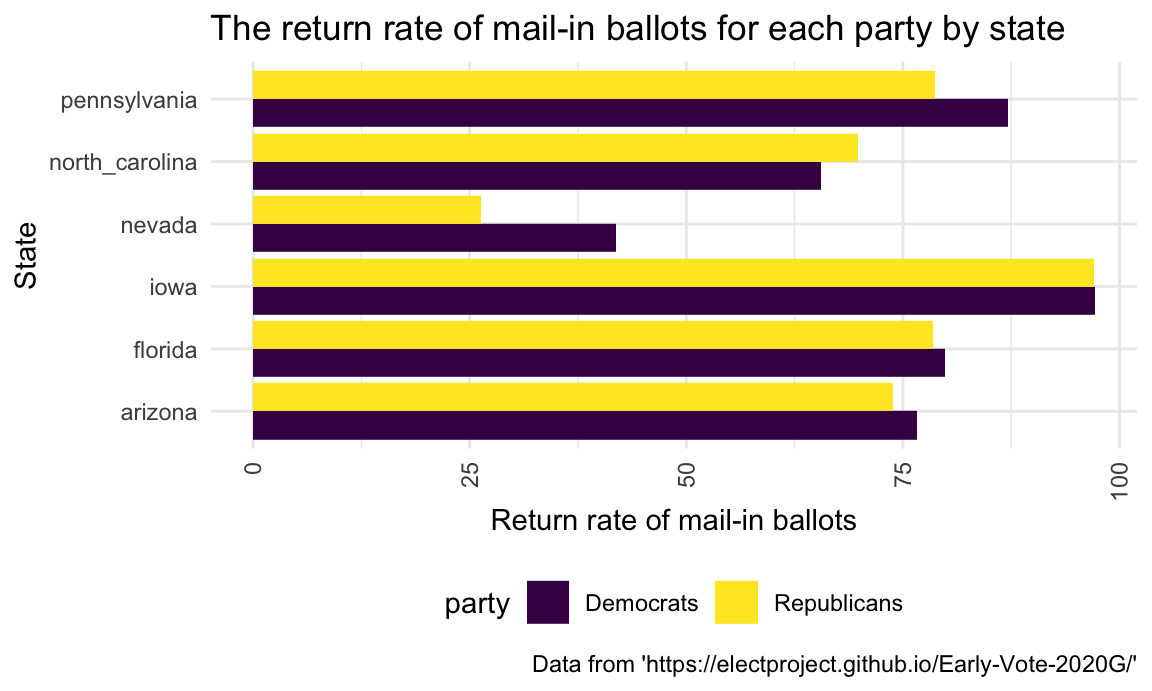
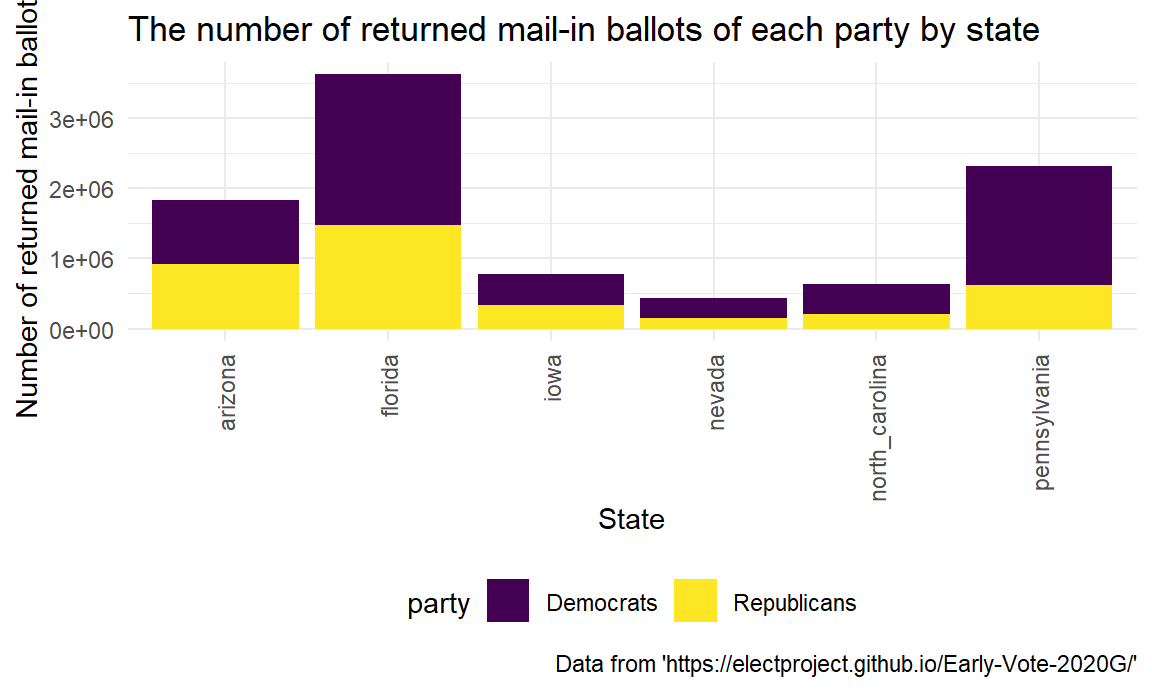
Finish the mail-in ballots rmd and html

diff --git a/supporting-rate-comparison.html b/supporting-rate-comparison.html
@@ -26,7 +26,7 @@
 <script src="site_libs/navigation-1.1/codefolding.js"></script>
 <link href="site_libs/highlightjs-9.12.0/default.css" rel="stylesheet" />
 <script src="site_libs/highlightjs-9.12.0/highlight.js"></script>
-<script src="site_libs/htmlwidgets-1.5.2/htmlwidgets.js"></script>
+<script src="site_libs/htmlwidgets-1.5.1/htmlwidgets.js"></script>
 <script src="site_libs/plotly-binding-4.9.2.1/plotly.js"></script>
 <script src="site_libs/typedarray-0.1/typedarray.min.js"></script>
 <link href="site_libs/crosstalk-1.1.0.1/css/crosstalk.css" rel="stylesheet" />
@@ -420,12 +420,12 @@ div.tocify {
 <h1>Results</h1>
 <hr />
 <pre class="r"><code>plot16</code></pre>
-<div id="htmlwidget-b330523681bee76b677a" style="width:90%;height:345.6px;" class="plotly html-widget"></div>
-<script type="application/json" data-for="htmlwidget-b330523681bee76b677a">{"x":{"data":[{"orientation":"v","width":[0.9,0.899999999999999,0.899999999999999,0.899999999999999,0.9,0.899999999999999,0.9,0.9,0.899999999999999,0.899999999999999,0.9,0.899999999999999,0.899999999999999,0.9,0.9,0.899999999999999,0.899999999999999],"base":[48.6,48.2,47.2,49.9,47.3,51.3,51.2,48.1,45.5,52.2,50.5,44.4,46.5,44.9,43.3,40,44.9],"x":[3,14,17,12,7,13,5,1,9,15,4,16,10,6,2,11,8],"y":[47.4,47.5,46.5,46.2,47,43.2,41.7,44.6,47.9,43.2,45.4,49.8,46.8,47.8,48.2,48.3,46.4],"text":["state: florida<br />rate: 47.4<br />party: dem","state: pennsylvania<br />rate: 47.5<br />party: dem","state: wisconsin<br />rate: 46.5<br />party: dem","state: north_carolina<br />rate: 46.2<br />party: dem","state: michigan<br />rate: 47.0<br />party: dem","state: ohio<br />rate: 43.2<br />party: dem","state: iowa<br />rate: 41.7<br />party: dem","state: arizona<br />rate: 44.6<br />party: dem","state: nevada<br />rate: 47.9<br />party: dem","state: texas<br />rate: 43.2<br />party: dem","state: georgia<br />rate: 45.4<br />party: dem","state: virginia<br />rate: 49.8<br />party: dem","state: new_hampshire<br />rate: 46.8<br />party: dem","state: maine<br />rate: 47.8<br />party: dem","state: colorado<br />rate: 48.2<br />party: dem","state: new_mexico<br />rate: 48.3<br />party: dem","state: minnesota<br />rate: 46.4<br />party: dem"],"type":"bar","marker":{"autocolorscale":false,"color":"rgba(68,1,84,1)","line":{"width":1.88976377952756,"color":"transparent"}},"name":"dem","legendgroup":"dem","showlegend":true,"xaxis":"x","yaxis":"y","hoverinfo":"text","frame":null},{"orientation":"v","width":[0.9,0.899999999999999,0.899999999999999,0.899999999999999,0.9,0.899999999999999,0.9,0.9,0.899999999999999,0.899999999999999,0.9,0.899999999999999,0.899999999999999,0.9,0.9,0.899999999999999,0.899999999999999],"base":[0,0,0,0,0,0,0,0,0,0,0,0,0,0,0,0,0],"x":[3,14,17,12,7,13,5,1,9,15,4,16,10,6,2,11,8],"y":[48.6,48.2,47.2,49.9,47.3,51.3,51.2,48.1,45.5,52.2,50.5,44.4,46.5,44.9,43.3,40,44.9],"text":["state: florida<br />rate: 48.6<br />party: rep","state: pennsylvania<br />rate: 48.2<br />party: rep","state: wisconsin<br />rate: 47.2<br />party: rep","state: north_carolina<br />rate: 49.9<br />party: rep","state: michigan<br />rate: 47.3<br />party: rep","state: ohio<br />rate: 51.3<br />party: rep","state: iowa<br />rate: 51.2<br />party: rep","state: arizona<br />rate: 48.1<br />party: rep","state: nevada<br />rate: 45.5<br />party: rep","state: texas<br />rate: 52.2<br />party: rep","state: georgia<br />rate: 50.5<br />party: rep","state: virginia<br />rate: 44.4<br />party: rep","state: new_hampshire<br />rate: 46.5<br />party: rep","state: maine<br />rate: 44.9<br />party: rep","state: colorado<br />rate: 43.3<br />party: rep","state: new_mexico<br />rate: 40.0<br />party: rep","state: minnesota<br />rate: 44.9<br />party: rep"],"type":"bar","marker":{"autocolorscale":false,"color":"rgba(253,231,37,1)","line":{"width":1.88976377952756,"color":"transparent"}},"name":"rep","legendgroup":"rep","showlegend":true,"xaxis":"x","yaxis":"y","hoverinfo":"text","frame":null}],"layout":{"margin":{"t":43.7625570776256,"r":7.30593607305936,"b":110.319634703196,"l":43.1050228310502},"font":{"color":"rgba(0,0,0,1)","family":"","size":14.6118721461187},"title":{"text":"Supporting rate in 2016","font":{"color":"rgba(0,0,0,1)","family":"","size":17.5342465753425},"x":0,"xref":"paper"},"xaxis":{"domain":[0,1],"automargin":true,"type":"linear","autorange":false,"range":[0.4,17.6],"tickmode":"array","ticktext":["arizona","colorado","florida","georgia","iowa","maine","michigan","minnesota","nevada","new_hampshire","new_mexico","north_carolina","ohio","pennsylvania","texas","virginia","wisconsin"],"tickvals":[1,2,3,4,5,6,7,8,9,10,11,12,13,14,15,16,17],"categoryorder":"array","categoryarray":["arizona","colorado","florida","georgia","iowa","maine","michigan","minnesota","nevada","new_hampshire","new_mexico","north_carolina","ohio","pennsylvania","texas","virginia","wisconsin"],"nticks":null,"ticks":"","tickcolor":null,"ticklen":3.65296803652968,"tickwidth":0,"showticklabels":true,"tickfont":{"color":"rgba(77,77,77,1)","family":"","size":11.689497716895},"tickangle":-90,"showline":false,"linecolor":null,"linewidth":0,"showgrid":true,"gridcolor":"rgba(235,235,235,1)","gridwidth":0.66417600664176,"zeroline":false,"anchor":"y","title":{"text":"State","font":{"color":"rgba(0,0,0,1)","family":"","size":14.6118721461187}},"hoverformat":".2f"},"yaxis":{"domain":[0,1],"automargin":true,"type":"linear","autorange":false,"range":[-4.805,100.905],"tickmode":"array","ticktext":["0","25","50","75","100"],"tickvals":[0,25,50,75,100],"categoryorder":"array","categoryarray":["0","25","50","75","100"],"nticks":null,"ticks":"","tickcolor":null,"ticklen":3.65296803652968,"tickwidth":0,"showticklabels":true,"tickfont":{"color":"rgba(77,77,77,1)","family":"","size":11.689497716895},"tickangle":-0,"showline":false,"linecolor":null,"linewidth":0,"showgrid":true,"gridcolor":"rgba(235,235,235,1)","gridwidth":0.66417600664176,"zeroline":false,"anchor":"x","title":{"text":"Rate","font":{"color":"rgba(0,0,0,1)","family":"","size":14.6118721461187}},"hoverformat":".2f"},"shapes":[{"type":"rect","fillcolor":null,"line":{"color":null,"width":0,"linetype":[]},"yref":"paper","xref":"paper","x0":0,"x1":1,"y0":0,"y1":1}],"showlegend":true,"legend":{"bgcolor":null,"bordercolor":null,"borderwidth":0,"font":{"color":"rgba(0,0,0,1)","family":"","size":11.689497716895},"y":0.913385826771654},"annotations":[{"text":"party","x":1.02,"y":1,"showarrow":false,"ax":0,"ay":0,"font":{"color":"rgba(0,0,0,1)","family":"","size":14.6118721461187},"xref":"paper","yref":"paper","textangle":-0,"xanchor":"left","yanchor":"bottom","legendTitle":true}],"hovermode":"closest","barmode":"relative"},"config":{"doubleClick":"reset","showSendToCloud":false},"source":"A","attrs":{"2da765f4a162":{"x":{},"y":{},"fill":{},"type":"bar"}},"cur_data":"2da765f4a162","visdat":{"2da765f4a162":["function (y) ","x"]},"highlight":{"on":"plotly_click","persistent":false,"dynamic":false,"selectize":false,"opacityDim":0.2,"selected":{"opacity":1},"debounce":0},"shinyEvents":["plotly_hover","plotly_click","plotly_selected","plotly_relayout","plotly_brushed","plotly_brushing","plotly_clickannotation","plotly_doubleclick","plotly_deselect","plotly_afterplot","plotly_sunburstclick"],"base_url":"https://plot.ly"},"evals":[],"jsHooks":[]}</script>
+<div id="htmlwidget-e69854a0fd1967c18110" style="width:90%;height:345.6px;" class="plotly html-widget"></div>
+<script type="application/json" data-for="htmlwidget-e69854a0fd1967c18110">{"x":{"data":[{"orientation":"v","width":[0.9,0.899999999999999,0.899999999999999,0.899999999999999,0.9,0.899999999999999,0.9,0.9,0.899999999999999,0.899999999999999,0.9,0.899999999999999,0.899999999999999,0.9,0.9,0.899999999999999,0.899999999999999],"base":[48.6,48.2,47.2,49.9,47.3,51.3,51.2,48.1,45.5,52.2,50.5,44.4,46.5,44.9,43.3,40,44.9],"x":[3,14,17,12,7,13,5,1,9,15,4,16,10,6,2,11,8],"y":[47.4,47.5,46.5,46.2,47,43.2,41.7,44.6,47.9,43.2,45.4,49.8,46.8,47.8,48.2,48.3,46.4],"text":["state: florida<br />rate: 47.4<br />party: dem","state: pennsylvania<br />rate: 47.5<br />party: dem","state: wisconsin<br />rate: 46.5<br />party: dem","state: north_carolina<br />rate: 46.2<br />party: dem","state: michigan<br />rate: 47.0<br />party: dem","state: ohio<br />rate: 43.2<br />party: dem","state: iowa<br />rate: 41.7<br />party: dem","state: arizona<br />rate: 44.6<br />party: dem","state: nevada<br />rate: 47.9<br />party: dem","state: texas<br />rate: 43.2<br />party: dem","state: georgia<br />rate: 45.4<br />party: dem","state: virginia<br />rate: 49.8<br />party: dem","state: new_hampshire<br />rate: 46.8<br />party: dem","state: maine<br />rate: 47.8<br />party: dem","state: colorado<br />rate: 48.2<br />party: dem","state: new_mexico<br />rate: 48.3<br />party: dem","state: minnesota<br />rate: 46.4<br />party: dem"],"type":"bar","marker":{"autocolorscale":false,"color":"rgba(68,1,84,1)","line":{"width":1.88976377952756,"color":"transparent"}},"name":"dem","legendgroup":"dem","showlegend":true,"xaxis":"x","yaxis":"y","hoverinfo":"text","frame":null},{"orientation":"v","width":[0.9,0.899999999999999,0.899999999999999,0.899999999999999,0.9,0.899999999999999,0.9,0.9,0.899999999999999,0.899999999999999,0.9,0.899999999999999,0.899999999999999,0.9,0.9,0.899999999999999,0.899999999999999],"base":[0,0,0,0,0,0,0,0,0,0,0,0,0,0,0,0,0],"x":[3,14,17,12,7,13,5,1,9,15,4,16,10,6,2,11,8],"y":[48.6,48.2,47.2,49.9,47.3,51.3,51.2,48.1,45.5,52.2,50.5,44.4,46.5,44.9,43.3,40,44.9],"text":["state: florida<br />rate: 48.6<br />party: rep","state: pennsylvania<br />rate: 48.2<br />party: rep","state: wisconsin<br />rate: 47.2<br />party: rep","state: north_carolina<br />rate: 49.9<br />party: rep","state: michigan<br />rate: 47.3<br />party: rep","state: ohio<br />rate: 51.3<br />party: rep","state: iowa<br />rate: 51.2<br />party: rep","state: arizona<br />rate: 48.1<br />party: rep","state: nevada<br />rate: 45.5<br />party: rep","state: texas<br />rate: 52.2<br />party: rep","state: georgia<br />rate: 50.5<br />party: rep","state: virginia<br />rate: 44.4<br />party: rep","state: new_hampshire<br />rate: 46.5<br />party: rep","state: maine<br />rate: 44.9<br />party: rep","state: colorado<br />rate: 43.3<br />party: rep","state: new_mexico<br />rate: 40.0<br />party: rep","state: minnesota<br />rate: 44.9<br />party: rep"],"type":"bar","marker":{"autocolorscale":false,"color":"rgba(253,231,37,1)","line":{"width":1.88976377952756,"color":"transparent"}},"name":"rep","legendgroup":"rep","showlegend":true,"xaxis":"x","yaxis":"y","hoverinfo":"text","frame":null}],"layout":{"margin":{"t":43.7625570776256,"r":7.30593607305936,"b":110.319634703196,"l":43.1050228310502},"font":{"color":"rgba(0,0,0,1)","family":"","size":14.6118721461187},"title":{"text":"Supporting rate in 2016","font":{"color":"rgba(0,0,0,1)","family":"","size":17.5342465753425},"x":0,"xref":"paper"},"xaxis":{"domain":[0,1],"automargin":true,"type":"linear","autorange":false,"range":[0.4,17.6],"tickmode":"array","ticktext":["arizona","colorado","florida","georgia","iowa","maine","michigan","minnesota","nevada","new_hampshire","new_mexico","north_carolina","ohio","pennsylvania","texas","virginia","wisconsin"],"tickvals":[1,2,3,4,5,6,7,8,9,10,11,12,13,14,15,16,17],"categoryorder":"array","categoryarray":["arizona","colorado","florida","georgia","iowa","maine","michigan","minnesota","nevada","new_hampshire","new_mexico","north_carolina","ohio","pennsylvania","texas","virginia","wisconsin"],"nticks":null,"ticks":"","tickcolor":null,"ticklen":3.65296803652968,"tickwidth":0,"showticklabels":true,"tickfont":{"color":"rgba(77,77,77,1)","family":"","size":11.689497716895},"tickangle":-90,"showline":false,"linecolor":null,"linewidth":0,"showgrid":true,"gridcolor":"rgba(235,235,235,1)","gridwidth":0.66417600664176,"zeroline":false,"anchor":"y","title":{"text":"State","font":{"color":"rgba(0,0,0,1)","family":"","size":14.6118721461187}},"hoverformat":".2f"},"yaxis":{"domain":[0,1],"automargin":true,"type":"linear","autorange":false,"range":[-4.805,100.905],"tickmode":"array","ticktext":["0","25","50","75","100"],"tickvals":[0,25,50,75,100],"categoryorder":"array","categoryarray":["0","25","50","75","100"],"nticks":null,"ticks":"","tickcolor":null,"ticklen":3.65296803652968,"tickwidth":0,"showticklabels":true,"tickfont":{"color":"rgba(77,77,77,1)","family":"","size":11.689497716895},"tickangle":-0,"showline":false,"linecolor":null,"linewidth":0,"showgrid":true,"gridcolor":"rgba(235,235,235,1)","gridwidth":0.66417600664176,"zeroline":false,"anchor":"x","title":{"text":"Rate","font":{"color":"rgba(0,0,0,1)","family":"","size":14.6118721461187}},"hoverformat":".2f"},"shapes":[{"type":"rect","fillcolor":null,"line":{"color":null,"width":0,"linetype":[]},"yref":"paper","xref":"paper","x0":0,"x1":1,"y0":0,"y1":1}],"showlegend":true,"legend":{"bgcolor":null,"bordercolor":null,"borderwidth":0,"font":{"color":"rgba(0,0,0,1)","family":"","size":11.689497716895},"y":0.96751968503937},"annotations":[{"text":"party","x":1.02,"y":1,"showarrow":false,"ax":0,"ay":0,"font":{"color":"rgba(0,0,0,1)","family":"","size":14.6118721461187},"xref":"paper","yref":"paper","textangle":-0,"xanchor":"left","yanchor":"bottom","legendTitle":true}],"hovermode":"closest","barmode":"relative"},"config":{"doubleClick":"reset","showSendToCloud":false},"source":"A","attrs":{"4d1c57035029":{"x":{},"y":{},"fill":{},"type":"bar"}},"cur_data":"4d1c57035029","visdat":{"4d1c57035029":["function (y) ","x"]},"highlight":{"on":"plotly_click","persistent":false,"dynamic":false,"selectize":false,"opacityDim":0.2,"selected":{"opacity":1},"debounce":0},"shinyEvents":["plotly_hover","plotly_click","plotly_selected","plotly_relayout","plotly_brushed","plotly_brushing","plotly_clickannotation","plotly_doubleclick","plotly_deselect","plotly_afterplot","plotly_sunburstclick"],"base_url":"https://plot.ly"},"evals":[],"jsHooks":[]}</script>
 <p>According to plot above, in 2016, 7 of the 17 battleground states have the Democratic supporting rates higher than the Republican supporting rates, including Colorado, Maine, Minnesota, Nevada, New Hampshire, New Mexico, and Virginia.</p>
 <pre class="r"><code>plot20</code></pre>
-<div id="htmlwidget-4f9008d09a9779137cd3" style="width:90%;height:345.6px;" class="plotly html-widget"></div>
-<script type="application/json" data-for="htmlwidget-4f9008d09a9779137cd3">{"x":{"data":[{"orientation":"v","width":[0.9,0.899999999999999,0.899999999999999,0.899999999999999,0.9,0.899999999999999,0.899999999999999,0.9,0.9,0.899999999999999,0.899999999999999,0.9,0.899999999999999,0.899999999999999,0.9,0.9,0.899999999999999],"base":[51.2,48.8,48.9,50,47.8,53.4,45.4,53.2,49.1,47.5,52.2,49.2,44.6,45.6,44.2,41.9,43.6],"x":[3,14,17,12,7,13,8,5,1,9,15,4,16,10,6,2,11],"y":[47.9,50,49.6,48.7,50.6,45.2,52.6,45,49.4,50.2,46.4,49.5,54,52.8,52.9,55.4,54.2],"text":["state: florida<br />rate: 47.9<br />party: dem","state: pennsylvania<br />rate: 50.0<br />party: dem","state: wisconsin<br />rate: 49.6<br />party: dem","state: north_carolina<br />rate: 48.7<br />party: dem","state: michigan<br />rate: 50.6<br />party: dem","state: ohio<br />rate: 45.2<br />party: dem","state: minnesota<br />rate: 52.6<br />party: dem","state: iowa<br />rate: 45.0<br />party: dem","state: arizona<br />rate: 49.4<br />party: dem","state: nevada<br />rate: 50.2<br />party: dem","state: texas<br />rate: 46.4<br />party: dem","state: georgia<br />rate: 49.5<br />party: dem","state: virginia<br />rate: 54.0<br />party: dem","state: new_hampshire<br />rate: 52.8<br />party: dem","state: maine<br />rate: 52.9<br />party: dem","state: colorado<br />rate: 55.4<br />party: dem","state: new_mexico<br />rate: 54.2<br />party: dem"],"type":"bar","marker":{"autocolorscale":false,"color":"rgba(68,1,84,1)","line":{"width":1.88976377952756,"color":"transparent"}},"name":"dem","legendgroup":"dem","showlegend":true,"xaxis":"x","yaxis":"y","hoverinfo":"text","frame":null},{"orientation":"v","width":[0.9,0.899999999999999,0.899999999999999,0.899999999999999,0.9,0.899999999999999,0.899999999999999,0.9,0.9,0.899999999999999,0.899999999999999,0.9,0.899999999999999,0.899999999999999,0.9,0.9,0.899999999999999],"base":[0,0,0,0,0,0,0,0,0,0,0,0,0,0,0,0,0],"x":[3,14,17,12,7,13,8,5,1,9,15,4,16,10,6,2,11],"y":[51.2,48.8,48.9,50,47.8,53.4,45.4,53.2,49.1,47.5,52.2,49.2,44.6,45.6,44.2,41.9,43.6],"text":["state: florida<br />rate: 51.2<br />party: rep","state: pennsylvania<br />rate: 48.8<br />party: rep","state: wisconsin<br />rate: 48.9<br />party: rep","state: north_carolina<br />rate: 50.0<br />party: rep","state: michigan<br />rate: 47.8<br />party: rep","state: ohio<br />rate: 53.4<br />party: rep","state: minnesota<br />rate: 45.4<br />party: rep","state: iowa<br />rate: 53.2<br />party: rep","state: arizona<br />rate: 49.1<br />party: rep","state: nevada<br />rate: 47.5<br />party: rep","state: texas<br />rate: 52.2<br />party: rep","state: georgia<br />rate: 49.2<br />party: rep","state: virginia<br />rate: 44.6<br />party: rep","state: new_hampshire<br />rate: 45.6<br />party: rep","state: maine<br />rate: 44.2<br />party: rep","state: colorado<br />rate: 41.9<br />party: rep","state: new_mexico<br />rate: 43.6<br />party: rep"],"type":"bar","marker":{"autocolorscale":false,"color":"rgba(253,231,37,1)","line":{"width":1.88976377952756,"color":"transparent"}},"name":"rep","legendgroup":"rep","showlegend":true,"xaxis":"x","yaxis":"y","hoverinfo":"text","frame":null}],"layout":{"margin":{"t":43.7625570776256,"r":7.30593607305936,"b":110.319634703196,"l":43.1050228310502},"font":{"color":"rgba(0,0,0,1)","family":"","size":14.6118721461187},"title":{"text":"Supporting rate in 2020","font":{"color":"rgba(0,0,0,1)","family":"","size":17.5342465753425},"x":0,"xref":"paper"},"xaxis":{"domain":[0,1],"automargin":true,"type":"linear","autorange":false,"range":[0.4,17.6],"tickmode":"array","ticktext":["arizona","colorado","florida","georgia","iowa","maine","michigan","minnesota","nevada","new_hampshire","new_mexico","north_carolina","ohio","pennsylvania","texas","virginia","wisconsin"],"tickvals":[1,2,3,4,5,6,7,8,9,10,11,12,13,14,15,16,17],"categoryorder":"array","categoryarray":["arizona","colorado","florida","georgia","iowa","maine","michigan","minnesota","nevada","new_hampshire","new_mexico","north_carolina","ohio","pennsylvania","texas","virginia","wisconsin"],"nticks":null,"ticks":"","tickcolor":null,"ticklen":3.65296803652968,"tickwidth":0,"showticklabels":true,"tickfont":{"color":"rgba(77,77,77,1)","family":"","size":11.689497716895},"tickangle":-90,"showline":false,"linecolor":null,"linewidth":0,"showgrid":true,"gridcolor":"rgba(235,235,235,1)","gridwidth":0.66417600664176,"zeroline":false,"anchor":"y","title":{"text":"State","font":{"color":"rgba(0,0,0,1)","family":"","size":14.6118721461187}},"hoverformat":".2f"},"yaxis":{"domain":[0,1],"automargin":true,"type":"linear","autorange":false,"range":[-4.955,104.055],"tickmode":"array","ticktext":["0","25","50","75","100"],"tickvals":[0,25,50,75,100],"categoryorder":"array","categoryarray":["0","25","50","75","100"],"nticks":null,"ticks":"","tickcolor":null,"ticklen":3.65296803652968,"tickwidth":0,"showticklabels":true,"tickfont":{"color":"rgba(77,77,77,1)","family":"","size":11.689497716895},"tickangle":-0,"showline":false,"linecolor":null,"linewidth":0,"showgrid":true,"gridcolor":"rgba(235,235,235,1)","gridwidth":0.66417600664176,"zeroline":false,"anchor":"x","title":{"text":"Rate","font":{"color":"rgba(0,0,0,1)","family":"","size":14.6118721461187}},"hoverformat":".2f"},"shapes":[{"type":"rect","fillcolor":null,"line":{"color":null,"width":0,"linetype":[]},"yref":"paper","xref":"paper","x0":0,"x1":1,"y0":0,"y1":1}],"showlegend":true,"legend":{"bgcolor":null,"bordercolor":null,"borderwidth":0,"font":{"color":"rgba(0,0,0,1)","family":"","size":11.689497716895},"y":0.913385826771654},"annotations":[{"text":"party","x":1.02,"y":1,"showarrow":false,"ax":0,"ay":0,"font":{"color":"rgba(0,0,0,1)","family":"","size":14.6118721461187},"xref":"paper","yref":"paper","textangle":-0,"xanchor":"left","yanchor":"bottom","legendTitle":true}],"hovermode":"closest","barmode":"relative"},"config":{"doubleClick":"reset","showSendToCloud":false},"source":"A","attrs":{"2da732e26a88":{"x":{},"y":{},"fill":{},"type":"bar"}},"cur_data":"2da732e26a88","visdat":{"2da732e26a88":["function (y) ","x"]},"highlight":{"on":"plotly_click","persistent":false,"dynamic":false,"selectize":false,"opacityDim":0.2,"selected":{"opacity":1},"debounce":0},"shinyEvents":["plotly_hover","plotly_click","plotly_selected","plotly_relayout","plotly_brushed","plotly_brushing","plotly_clickannotation","plotly_doubleclick","plotly_deselect","plotly_afterplot","plotly_sunburstclick"],"base_url":"https://plot.ly"},"evals":[],"jsHooks":[]}</script>
+<div id="htmlwidget-aca76f16c74ad011a9f9" style="width:90%;height:345.6px;" class="plotly html-widget"></div>
+<script type="application/json" data-for="htmlwidget-aca76f16c74ad011a9f9">{"x":{"data":[{"orientation":"v","width":[0.9,0.899999999999999,0.899999999999999,0.899999999999999,0.9,0.899999999999999,0.899999999999999,0.9,0.9,0.899999999999999,0.899999999999999,0.9,0.899999999999999,0.899999999999999,0.9,0.9,0.899999999999999],"base":[51.2,48.8,48.9,50,47.8,53.4,45.4,53.2,49.1,47.5,52.2,49.2,44.6,45.6,44.2,41.9,43.6],"x":[3,14,17,12,7,13,8,5,1,9,15,4,16,10,6,2,11],"y":[47.9,50,49.6,48.7,50.6,45.2,52.6,45,49.4,50.2,46.4,49.5,54,52.8,52.9,55.4,54.2],"text":["state: florida<br />rate: 47.9<br />party: dem","state: pennsylvania<br />rate: 50.0<br />party: dem","state: wisconsin<br />rate: 49.6<br />party: dem","state: north_carolina<br />rate: 48.7<br />party: dem","state: michigan<br />rate: 50.6<br />party: dem","state: ohio<br />rate: 45.2<br />party: dem","state: minnesota<br />rate: 52.6<br />party: dem","state: iowa<br />rate: 45.0<br />party: dem","state: arizona<br />rate: 49.4<br />party: dem","state: nevada<br />rate: 50.2<br />party: dem","state: texas<br />rate: 46.4<br />party: dem","state: georgia<br />rate: 49.5<br />party: dem","state: virginia<br />rate: 54.0<br />party: dem","state: new_hampshire<br />rate: 52.8<br />party: dem","state: maine<br />rate: 52.9<br />party: dem","state: colorado<br />rate: 55.4<br />party: dem","state: new_mexico<br />rate: 54.2<br />party: dem"],"type":"bar","marker":{"autocolorscale":false,"color":"rgba(68,1,84,1)","line":{"width":1.88976377952756,"color":"transparent"}},"name":"dem","legendgroup":"dem","showlegend":true,"xaxis":"x","yaxis":"y","hoverinfo":"text","frame":null},{"orientation":"v","width":[0.9,0.899999999999999,0.899999999999999,0.899999999999999,0.9,0.899999999999999,0.899999999999999,0.9,0.9,0.899999999999999,0.899999999999999,0.9,0.899999999999999,0.899999999999999,0.9,0.9,0.899999999999999],"base":[0,0,0,0,0,0,0,0,0,0,0,0,0,0,0,0,0],"x":[3,14,17,12,7,13,8,5,1,9,15,4,16,10,6,2,11],"y":[51.2,48.8,48.9,50,47.8,53.4,45.4,53.2,49.1,47.5,52.2,49.2,44.6,45.6,44.2,41.9,43.6],"text":["state: florida<br />rate: 51.2<br />party: rep","state: pennsylvania<br />rate: 48.8<br />party: rep","state: wisconsin<br />rate: 48.9<br />party: rep","state: north_carolina<br />rate: 50.0<br />party: rep","state: michigan<br />rate: 47.8<br />party: rep","state: ohio<br />rate: 53.4<br />party: rep","state: minnesota<br />rate: 45.4<br />party: rep","state: iowa<br />rate: 53.2<br />party: rep","state: arizona<br />rate: 49.1<br />party: rep","state: nevada<br />rate: 47.5<br />party: rep","state: texas<br />rate: 52.2<br />party: rep","state: georgia<br />rate: 49.2<br />party: rep","state: virginia<br />rate: 44.6<br />party: rep","state: new_hampshire<br />rate: 45.6<br />party: rep","state: maine<br />rate: 44.2<br />party: rep","state: colorado<br />rate: 41.9<br />party: rep","state: new_mexico<br />rate: 43.6<br />party: rep"],"type":"bar","marker":{"autocolorscale":false,"color":"rgba(253,231,37,1)","line":{"width":1.88976377952756,"color":"transparent"}},"name":"rep","legendgroup":"rep","showlegend":true,"xaxis":"x","yaxis":"y","hoverinfo":"text","frame":null}],"layout":{"margin":{"t":43.7625570776256,"r":7.30593607305936,"b":110.319634703196,"l":43.1050228310502},"font":{"color":"rgba(0,0,0,1)","family":"","size":14.6118721461187},"title":{"text":"Supporting rate in 2020","font":{"color":"rgba(0,0,0,1)","family":"","size":17.5342465753425},"x":0,"xref":"paper"},"xaxis":{"domain":[0,1],"automargin":true,"type":"linear","autorange":false,"range":[0.4,17.6],"tickmode":"array","ticktext":["arizona","colorado","florida","georgia","iowa","maine","michigan","minnesota","nevada","new_hampshire","new_mexico","north_carolina","ohio","pennsylvania","texas","virginia","wisconsin"],"tickvals":[1,2,3,4,5,6,7,8,9,10,11,12,13,14,15,16,17],"categoryorder":"array","categoryarray":["arizona","colorado","florida","georgia","iowa","maine","michigan","minnesota","nevada","new_hampshire","new_mexico","north_carolina","ohio","pennsylvania","texas","virginia","wisconsin"],"nticks":null,"ticks":"","tickcolor":null,"ticklen":3.65296803652968,"tickwidth":0,"showticklabels":true,"tickfont":{"color":"rgba(77,77,77,1)","family":"","size":11.689497716895},"tickangle":-90,"showline":false,"linecolor":null,"linewidth":0,"showgrid":true,"gridcolor":"rgba(235,235,235,1)","gridwidth":0.66417600664176,"zeroline":false,"anchor":"y","title":{"text":"State","font":{"color":"rgba(0,0,0,1)","family":"","size":14.6118721461187}},"hoverformat":".2f"},"yaxis":{"domain":[0,1],"automargin":true,"type":"linear","autorange":false,"range":[-4.955,104.055],"tickmode":"array","ticktext":["0","25","50","75","100"],"tickvals":[0,25,50,75,100],"categoryorder":"array","categoryarray":["0","25","50","75","100"],"nticks":null,"ticks":"","tickcolor":null,"ticklen":3.65296803652968,"tickwidth":0,"showticklabels":true,"tickfont":{"color":"rgba(77,77,77,1)","family":"","size":11.689497716895},"tickangle":-0,"showline":false,"linecolor":null,"linewidth":0,"showgrid":true,"gridcolor":"rgba(235,235,235,1)","gridwidth":0.66417600664176,"zeroline":false,"anchor":"x","title":{"text":"Rate","font":{"color":"rgba(0,0,0,1)","family":"","size":14.6118721461187}},"hoverformat":".2f"},"shapes":[{"type":"rect","fillcolor":null,"line":{"color":null,"width":0,"linetype":[]},"yref":"paper","xref":"paper","x0":0,"x1":1,"y0":0,"y1":1}],"showlegend":true,"legend":{"bgcolor":null,"bordercolor":null,"borderwidth":0,"font":{"color":"rgba(0,0,0,1)","family":"","size":11.689497716895},"y":0.96751968503937},"annotations":[{"text":"party","x":1.02,"y":1,"showarrow":false,"ax":0,"ay":0,"font":{"color":"rgba(0,0,0,1)","family":"","size":14.6118721461187},"xref":"paper","yref":"paper","textangle":-0,"xanchor":"left","yanchor":"bottom","legendTitle":true}],"hovermode":"closest","barmode":"relative"},"config":{"doubleClick":"reset","showSendToCloud":false},"source":"A","attrs":{"4d1c35a33cdf":{"x":{},"y":{},"fill":{},"type":"bar"}},"cur_data":"4d1c35a33cdf","visdat":{"4d1c35a33cdf":["function (y) ","x"]},"highlight":{"on":"plotly_click","persistent":false,"dynamic":false,"selectize":false,"opacityDim":0.2,"selected":{"opacity":1},"debounce":0},"shinyEvents":["plotly_hover","plotly_click","plotly_selected","plotly_relayout","plotly_brushed","plotly_brushing","plotly_clickannotation","plotly_doubleclick","plotly_deselect","plotly_afterplot","plotly_sunburstclick"],"base_url":"https://plot.ly"},"evals":[],"jsHooks":[]}</script>
 <p>In 2020, 12 of the 17 battleground states have the Democratic supporting rates higher than the Republican supporting rates, including Arizona, Colorado, Georgia, Maine, Michigan, Minnesota, Nevada, New Hampshire, New Mexico, Pennsylvania, Virginia, and Wisconsin.</p>
 <p>Compared to 2016, new blue states included Arizona, Georgia, Michigan, Pennsylvania, and Wisconsin.</p>
 <pre class="r"><code>knitr::kable(table_df)</code></pre>

diff --git a/Mail-in_ballots.html b/Mail-in_ballots.html
@@ -361,7 +361,7 @@ div.tocify {
   <a href="supporting-rate-comparison.html">Supporting rate 2020 vs. 2016</a>
 </li>
 <li>
-  <a href="mail_in_ballots.html">Mail-in ballots Democrats vs. Republicans</a>
+  <a href="Mail-in_ballots.html">Mail-in ballots Democrats vs. Republicans</a>
 </li>
       </ul>
       <ul class="nav navbar-nav navbar-right">
@@ -390,80 +390,20 @@ div.tocify {
 </div>
 
 
-<div id="comparison-of-both-candidates-mail-in-votes" class="section level2">
-<h2>Comparison of both candidates’ mail-in votes</h2>
-<p>#Compare the number of mail-in ballots of dem/rep in each state</p>
-<pre class="r"><code>returnedballots_df =
-  read_csv(&quot;data/mail_in.csv&quot;) %&gt;% 
-  select(state, party, returned_ballots) %&gt;% 
-  filter(party %in% c(&quot;Democrats&quot;, &quot;Republicans&quot;)) %&gt;%
-  group_by(state, party) </code></pre>
-<pre><code>## Parsed with column specification:
-## cols(
-##   state = col_character(),
-##   party = col_character(),
-##   returned_ballots = col_number(),
-##   freq_distribution = col_double(),
-##   requested_ballots = col_number(),
-##   return_rate = col_double()
-## )</code></pre>
-<pre class="r"><code>plot_returned_ballots = 
-  returnedballots_df %&gt;%
-  ggplot(aes(x = state, y = returned_ballots, fill = party)) +
-  geom_bar(stat=&quot;identity&quot;) +
-  theme(axis.text.x = element_text(angle = 90, vjust = 0.5, hjust = 1)) +
-  labs(
-  title = &quot;The number of returned mail-in ballots of each party by state&quot;,
-  x = &quot;State&quot;,
-  y = &quot;Number of returned mail-in ballots&quot;,
-  caption = &quot;Data from &#39;https://electproject.github.io/Early-Vote-2020G/&#39;&quot;
-  )</code></pre>
-<p>#Compare the return rate of mail-in ballots for each party by state</p>
-<pre class="r"><code>returnrate_df =
-  read_csv(&quot;data/mail_in.csv&quot;) %&gt;% 
-  select(state, party, return_rate) %&gt;% 
-  filter(party %in% c(&quot;Democrats&quot;, &quot;Republicans&quot;)) %&gt;%
-  group_by(state, party) </code></pre>
-<pre><code>## Parsed with column specification:
-## cols(
-##   state = col_character(),
-##   party = col_character(),
-##   returned_ballots = col_number(),
-##   freq_distribution = col_double(),
-##   requested_ballots = col_number(),
-##   return_rate = col_double()
-## )</code></pre>
-<pre class="r"><code>plot_return_rate = 
-  returnrate_df %&gt;%
-  ggplot(aes(x =return_rate, y = state, fill = party)) +
-  geom_bar(stat=&quot;identity&quot;, position=position_dodge()) +
-  theme(axis.text.x = element_text(angle = 90, vjust = 0.5, hjust = 1)) +
-  labs(
-  title = &quot;The return rate of mail-in ballots for each party by state&quot;,
-  x = &quot;Return rate of mail-in ballots&quot;,
-  y = &quot;State&quot;,
-  caption = &quot;Data from &#39;https://electproject.github.io/Early-Vote-2020G/&#39;&quot;
-  )</code></pre>
-<pre class="r"><code>knitr::opts_chunk$set(
-  fig.width = 6,
-  fig.asp = .6,
-  out.width = &quot;90%&quot;
-)</code></pre>
-</div>
 <div id="overview" class="section level1">
 <h1>Overview</h1>
 <hr />
-<p>In the supporting rate comparison analysis, we compared the supporting rate of Democratic Party and the Republican Party in 17 battleground states in 2016 and 2020. The 17 Battleground states include Florida, Pennsylvania, Wisconsin,North Carolina, Michigan, Ohio, Minnesota, Iowa, Arizona, Nevada, Texas, Georgia, Virginia, New Hampshire Maine, Colorado, and New Mexico.</p>
-<p>In 2016, 7 of the 17 battleground states have the Democratic supporting rates higher than the Republican supporting rates. In 2020, 12 of the 17 battleground states have the Democratic supporting rates higher than the Republican supporting rates. We observed that in each of the battleground states, the difference between Democratic supporting rate and Republican supporting rate has increased, except Florida and Ohio.</p>
-<p>Relevant bar plots and table are attached.</p>
+<p>In order to analyze the distribution of mail-in ballots in swing states, we compared the number of mail-in ballots of Democratic Party and the Republican Party in 6 swing states in 2020’s election. The 6 swing states are: Florida, Pennsylvania, North Carolina, Iowa, Arizona, and Nevada.</p>
+<p>After analyzing the distribution and return rate of mail-in ballots for both candidates in swing states, we can safely draw on our conclusion that Democrats have absolute advantage in 6 swing states in terms of mail-in ballots, given the return rate of mail-in ballots for both candidates are approximately very close to each other.</p>
+<p>Relevant outputs of bar charts and tables are attached.</p>
 <p><br />
 </p>
 </div>
 <div id="research-question" class="section level1">
 <h1>Research question</h1>
 <hr />
-<p>In this part, we aimed to compare the supporting rates of two different parties in 17 key states in 2016 and 2020.</p>
-<p>We made a bar plot for each year, comparing supporting rates of two parties in 17 key states. In addition, we calculated the differences of supporting rates in each state in each year and studied how much the Democratic led in each election.</p>
+<p>In this section, our goal is to compare the number of mail-in ballots of two candidates’ parties in 6 swing states of 2020’s U.S. Presidential election.</p>
+<p>We made a frequency table and a bar chart to compare the distribution of mail-in votes of both Democrat and Republican candidates in each state. In addition, we produced another bar chart and a table to compare the return rates of mail in ballots in each state and studied how much more mail-in votes are won by the Democrats in each swing state</p>
 <p><br />
 </p>
 </div>
@@ -471,29 +411,111 @@ div.tocify {
 <h1>Results</h1>
 <hr />
 <pre class="r"><code>plot_returned_ballots</code></pre>
-<p><img src="Mail-in_ballots_files/figure-html/unnamed-chunk-4-1.png" width="90%" /></p>
-<p>According to plot above, in 2016, 7 of the 17 battleground states have the Democratic supporting rates higher than the Republican supporting rates, including Colorado, Maine, Minnesota, Nevada, New Hampshire, New Mexico, and Virginia.</p>
+<p><img src="Mail-in_ballots_files/figure-html/unnamed-chunk-1-1.png" width="90%" /></p>
+<pre class="r"><code>knitr::kable(tab_returnedballots)</code></pre>
+<table>
+<thead>
+<tr class="header">
+<th align="left">state</th>
+<th align="right">Democrats</th>
+<th align="right">Republicans</th>
+</tr>
+</thead>
+<tbody>
+<tr class="odd">
+<td align="left">florida</td>
+<td align="right">45.3</td>
+<td align="right">31.1</td>
+</tr>
+<tr class="even">
+<td align="left">pennsylvania</td>
+<td align="right">64.8</td>
+<td align="right">23.7</td>
+</tr>
+<tr class="odd">
+<td align="left">north_carolina</td>
+<td align="right">44.8</td>
+<td align="right">20.6</td>
+</tr>
+<tr class="even">
+<td align="left">iowa</td>
+<td align="right">45.1</td>
+<td align="right">33.3</td>
+</tr>
+<tr class="odd">
+<td align="left">arizona</td>
+<td align="right">37.4</td>
+<td align="right">37.0</td>
+</tr>
+<tr class="even">
+<td align="left">nevada</td>
+<td align="right">48.3</td>
+<td align="right">25.9</td>
+</tr>
+</tbody>
+</table>
+<p>According to plot above, Democrat’s candidate Joe Biden, had dominant votes over Republican’s candidate Donald Trump, for the returned mail-in ballots in all 6 swing states. The frequency distribution further confirms these facts. In particularly, Biden had absulte dominance over Trump for returned mail-in ballots in the state of Pennsylvania and Florida.</p>
 <pre class="r"><code>plot_return_rate</code></pre>
-<p><img src="Mail-in_ballots_files/figure-html/unnamed-chunk-5-1.png" width="90%" /></p>
-<p>In 2020, 12 of the 17 battleground states have the Democratic supporting rates higher than the Republican supporting rates, including Arizona, Colorado, Georgia, Maine, Michigan, Minnesota, Nevada, New Hampshire, New Mexico, Pennsylvania, Virginia, and Wisconsin.</p>
-<p>Compared to 2016, new blue states included Arizona, Georgia, Michigan, Pennsylvania, and Wisconsin.</p>
-<p>The table above calculated the differences between Democratic supporting rates and Republican supporting rates (dem - rep) in 2016 and 2020.</p>
-<p>We observed that in each of the battleground states, the difference between Democratic supporting rate and Republican supporting rate has increased, except Florida and Ohio. This result represents that the extent of how much the Democrat led has increased in 15 of the 17 key states.</p>
+<p><img src="Mail-in_ballots_files/figure-html/unnamed-chunk-3-1.png" width="90%" /></p>
+<pre class="r"><code>knitr::kable(tab_returnrate)</code></pre>
+<table>
+<thead>
+<tr class="header">
+<th align="left">state</th>
+<th align="right">Democrats</th>
+<th align="right">Republicans</th>
+</tr>
+</thead>
+<tbody>
+<tr class="odd">
+<td align="left">florida</td>
+<td align="right">79.9</td>
+<td align="right">78.5</td>
+</tr>
+<tr class="even">
+<td align="left">pennsylvania</td>
+<td align="right">87.1</td>
+<td align="right">78.7</td>
+</tr>
+<tr class="odd">
+<td align="left">north_carolina</td>
+<td align="right">65.5</td>
+<td align="right">69.8</td>
+</tr>
+<tr class="even">
+<td align="left">iowa</td>
+<td align="right">97.2</td>
+<td align="right">97.1</td>
+</tr>
+<tr class="odd">
+<td align="left">arizona</td>
+<td align="right">76.6</td>
+<td align="right">73.8</td>
+</tr>
+<tr class="even">
+<td align="left">nevada</td>
+<td align="right">41.9</td>
+<td align="right">26.3</td>
+</tr>
+</tbody>
+</table>
+<p>The table and bar chart above compared the return rates of both parties’ mail-in ballots in 6 swing states.</p>
+<p>We observed that return rate of mail-in ballots by parties in each of the swing states are often close to each other, except for the state of Nevada, where Democrats have 41.9% return rate and Republicans have 26.3% return rate. Overall, Democrat’s mail-in ballots has higher return rate over Republican’s return rate, except for the state of North Carolina, where Republicans have slight advantage of 69.8% while Democrates have 65.5%.</p>
 <p><br />
 </p>
 </div>
 <div id="discussion" class="section level1">
 <h1>Discussion</h1>
 <hr />
-<p>In 2016, only 7 of the 17 battleground states were blue states, which supported the Democratic party. However, in 2020, 12 of the 17 battleground states were blue states. Five new blue states included Arizona, Georgia, Michigan, Pennsylvania, and Wisconsin.</p>
-<p>Of all the 17 states, we observed an increase in the extent of how much Democrat led in 15 states. Only Florida and Ohio had their Republican supporting rates increased in 2020.</p>
-<p>Based on the analysis above, we could figure out that since the Democratic party led in most of the battleground states, it is reasonable to predict and understand why the Democratic would win.</p>
+<p>Referring back to 2016’s election, Democrats obviously gained more support in swing states. Based on the analysis above, we have sufficient evidence to prove that the Democratic party led in all 6 swing states in terms of mail-in ballots. Moreover, return rates of mail-in ballots for both candidates often have small difference. We came to a reasonable interpretation of how Joe Biden became the president-elect of 2020’s election in the U.S.</p>
 <p><br />
-# Conclusion</p>
+</p>
+</div>
+<div id="conclusion" class="section level1">
+<h1>Conclusion</h1>
 <hr />
-<p>In the supporting rate comparison analysis, we compared the supporting rate of Democratic Party and the Republican Party in 17 battleground states in 2016 and 2020. Bar plots for 2016 and 2020, and a table comparing the differences of supporting rates in each state were developed.</p>
-<p>In 2016, 7 of the 17 battleground states have the Democratic supporting rates higher than the Republican supporting rates. In 2020, 12 of the 17 battleground states have the Democratic supporting rates higher than the Republican supporting rates. We observed that in each of the battleground states, the difference between Democratic supporting rate and Republican supporting rate has increased, except Florida and Ohio.</p>
-<p>Overall, larger proportions of people in these battleground states supported the Democratic party in 2020, compared to 2016.</p>
+<p>After analyzing the distribution and return rate of mail-in ballots for both candidates in swing states, we can safely draw our conclusion on the fact that mail-in ballots in swing states had significantly tilted the 2020 presidential election results. More electorial votes went to Democrats as more mail-in ballots are being counted.</p>
+<p>In general, Democrats have absolute advantage in 6 swing states in terms of mail-in ballots, given the return rate of mail-in ballots for both candidates are approximately very close to each other.</p>
 </div>
 
 

diff --git a/regression.html b/regression.html
@@ -517,6 +517,40 @@ ggplot(model_case, aes(x = mean_case)) +
     axis.title.y.right = element_text(color = PointColor, size = 14),
     axis.title.x.bottom = element_text(size = 14)
   )</code></pre>
+<pre><code>## Warning in grid.Call(C_stringMetric, as.graphicsAnnot(x$label)): font family not
+## found in Windows font database
+
+## Warning in grid.Call(C_stringMetric, as.graphicsAnnot(x$label)): font family not
+## found in Windows font database</code></pre>
+<pre><code>## Warning in grid.Call(C_textBounds, as.graphicsAnnot(x$label), x$x, x$y, : font
+## family not found in Windows font database
+
+## Warning in grid.Call(C_textBounds, as.graphicsAnnot(x$label), x$x, x$y, : font
+## family not found in Windows font database
+
+## Warning in grid.Call(C_textBounds, as.graphicsAnnot(x$label), x$x, x$y, : font
+## family not found in Windows font database
+
+## Warning in grid.Call(C_textBounds, as.graphicsAnnot(x$label), x$x, x$y, : font
+## family not found in Windows font database
+
+## Warning in grid.Call(C_textBounds, as.graphicsAnnot(x$label), x$x, x$y, : font
+## family not found in Windows font database
+
+## Warning in grid.Call(C_textBounds, as.graphicsAnnot(x$label), x$x, x$y, : font
+## family not found in Windows font database
+
+## Warning in grid.Call(C_textBounds, as.graphicsAnnot(x$label), x$x, x$y, : font
+## family not found in Windows font database
+
+## Warning in grid.Call(C_textBounds, as.graphicsAnnot(x$label), x$x, x$y, : font
+## family not found in Windows font database</code></pre>
+<pre><code>## Warning in grid.Call.graphics(C_text, as.graphicsAnnot(x$label), x$x, x$y, :
+## font family not found in Windows font database</code></pre>
+<pre><code>## Warning in grid.Call(C_textBounds, as.graphicsAnnot(x$label), x$x, x$y, : font
+## family not found in Windows font database</code></pre>
+<pre><code>## Warning in grid.Call.graphics(C_text, as.graphicsAnnot(x$label), x$x, x$y, :
+## font family not found in Windows font database</code></pre>
 <p><img src="regression_files/figure-html/unnamed-chunk-4-1.png" width="70%" /></p>
 <p><br />
 </p>
@@ -597,6 +631,38 @@ ggplot(model_death, aes(x = mean_death)) +
     axis.title.y.right = element_text(color = PointColor, size = 14),
     axis.title.x.bottom = element_text(size = 14)
   ) </code></pre>
+<pre><code>## Warning in grid.Call(C_textBounds, as.graphicsAnnot(x$label), x$x, x$y, : font
+## family not found in Windows font database
+
+## Warning in grid.Call(C_textBounds, as.graphicsAnnot(x$label), x$x, x$y, : font
+## family not found in Windows font database
+
+## Warning in grid.Call(C_textBounds, as.graphicsAnnot(x$label), x$x, x$y, : font
+## family not found in Windows font database
+
+## Warning in grid.Call(C_textBounds, as.graphicsAnnot(x$label), x$x, x$y, : font
+## family not found in Windows font database
+
+## Warning in grid.Call(C_textBounds, as.graphicsAnnot(x$label), x$x, x$y, : font
+## family not found in Windows font database
+
+## Warning in grid.Call(C_textBounds, as.graphicsAnnot(x$label), x$x, x$y, : font
+## family not found in Windows font database
+
+## Warning in grid.Call(C_textBounds, as.graphicsAnnot(x$label), x$x, x$y, : font
+## family not found in Windows font database
+
+## Warning in grid.Call(C_textBounds, as.graphicsAnnot(x$label), x$x, x$y, : font
+## family not found in Windows font database
+
+## Warning in grid.Call(C_textBounds, as.graphicsAnnot(x$label), x$x, x$y, : font
+## family not found in Windows font database</code></pre>
+<pre><code>## Warning in grid.Call.graphics(C_text, as.graphicsAnnot(x$label), x$x, x$y, :
+## font family not found in Windows font database</code></pre>
+<pre><code>## Warning in grid.Call(C_textBounds, as.graphicsAnnot(x$label), x$x, x$y, : font
+## family not found in Windows font database</code></pre>
+<pre><code>## Warning in grid.Call.graphics(C_text, as.graphicsAnnot(x$label), x$x, x$y, :
+## font family not found in Windows font database</code></pre>
 <p><img src="regression_files/figure-html/unnamed-chunk-6-1.png" width="70%" /></p>
 <p><br />
 </p>
